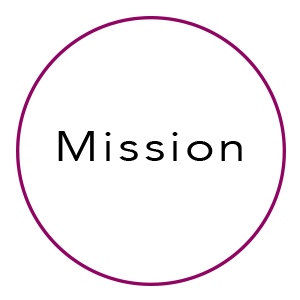
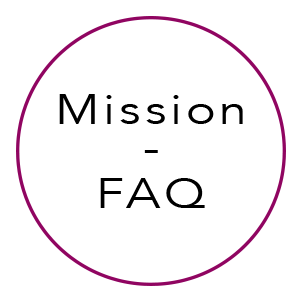
Renamed: styles.css -> bootstrap.css; Created: global.css, home-carousel.module.scss; Deleted: carousel.css, header.css, faqs.png; Redirected CSS Path For: layout.js, header.js, carousel.js; Changed: mission.png file

Changed region(s): [[0.18, 0.3, 0.81, 0.54], [0.33, 0.57, 0.69, 0.72], [0.63, 0.33, 0.81, 0.42]]

diff --git a/src/components/carousel.js b/src/components/carousel.js
@@ -3,14 +3,14 @@ import AniLink from "gatsby-plugin-transition-link/AniLink"
 import Slider from "react-slick";
 import "slick-carousel/slick/slick.css";
 import "slick-carousel/slick/slick-theme.css";
-import "./carousel.css"
+import HomeCarouselStyle from "../styles/home-carousel.module.scss"
+import "../styles/global.css"
 import Tastings from "../images/tastings.png"
 import Mission from "../images/mission.png"
 import Vlog from "../images/vlog.png"
 import Testimonial from "../images/testimonial.png"
-import Faq from "../images/faq.png"
 
-export default class CarouselSlider extends Component {
+export default class HomelSlider extends Component {
   render() {
     
     return (
@@ -22,20 +22,17 @@ export default class CarouselSlider extends Component {
         slidesToShow={3}
         swipeToSlide={true}
         >
-          <AniLink swipe direction="up" entryOffset={100} to="/tastings" className="carousel-item">
-            <img src={Tastings} alt="Wine Tasting" className="carousel-img" />
+          <AniLink swipe direction="up" entryOffset={100} to="/tastings" >
+            <img src={Tastings} alt="Wine Tasting" className={HomeCarouselStyle.carouselImg} />
           </AniLink>
-          <AniLink swipe direction="up" entryOffset={100} to="/mission" className="carousel-item">
-          <img src={Mission} alt="About Us" className="carousel-img" />
+          <AniLink swipe direction="up" entryOffset={100} to="/mission" >
+          <img src={Mission} alt="Mission" className={HomeCarouselStyle.carouselImg} />
           </AniLink>
-          <AniLink swipe direction="up" entryOffset={100} to="/vlog" className="carousel-item">
-          <img src={Vlog} alt="Vlog" className="carousel-img" />
+          <AniLink swipe direction="up" entryOffset={100} to="/vlog" >
+          <img src={Vlog} alt="Vlog" className={HomeCarouselStyle.carouselImg} />
           </AniLink>
-          <AniLink swipe direction="up" entryOffset={100} to="/testimonials" className="carousel-item">
-          <img src={Testimonial} alt="Testimonial" className="carousel-img" />
-          </AniLink>
-          <AniLink swipe direction="up" entryOffset={100} to="/faqs" className="carousel-item">
-          <img src={Faq} alt="FAQ" className="carousel-img" />
+          <AniLink swipe direction="up" entryOffset={100} to="/testimonials" >
+          <img src={Testimonial} alt="Testimonial" className={HomeCarouselStyle.carouselImg} />
           </AniLink>
         </Slider>
       </div>

diff --git a/src/styles/global.css b/src/styles/global.css
@@ -1,3 +1,15 @@
+/****
+Files include:
+1) header.js
+
+Plugins:
+1) React-Slick Carousel
+***/
+
+
+/** FILES **/
+
+/* header.js */
 .nav-logo {
     width: 10%;
     padding-top: 5px;
@@ -30,4 +42,11 @@
     .nav-logo {
         width: 23%;
     }
+}
+
+/** PLUGINS **/
+
+/* React-Slick Carousel */
+.slick-dots li.slick-active button:before {
+    color: #900561 !important;
 }

diff --git a/src/components/header.js b/src/components/header.js
@@ -1,6 +1,6 @@
 import React from 'react'
-import '../styles/styles.css'
-import './header.css'
+import '../styles/bootstrap.css'
+import '../styles/global.css'
 import AniLink from "gatsby-plugin-transition-link/AniLink"
 import { FontAwesomeIcon } from '@fortawesome/react-fontawesome'
 import { faInstagram, faFacebookF } from '@fortawesome/free-brands-svg-icons'

diff --git a/src/styles/home-carousel.module.scss b/src/styles/home-carousel.module.scss
@@ -4,10 +4,6 @@
     display: block;
 }
 
-.slick-dots li.slick-active button:before {
-    color: #900561 !important;
-}
-
 @media (min-width: 768px) and (max-width: 991px) {
     .carousel-img {
         width: 60%;

diff --git a/src/components/layout.js b/src/components/layout.js
@@ -1,6 +1,6 @@
 import React from "react"
 import Header from './header'
-import '../styles/styles.css'
+import '../styles/bootstrap.css'
 
 const Layout = (props) => {
     return (
